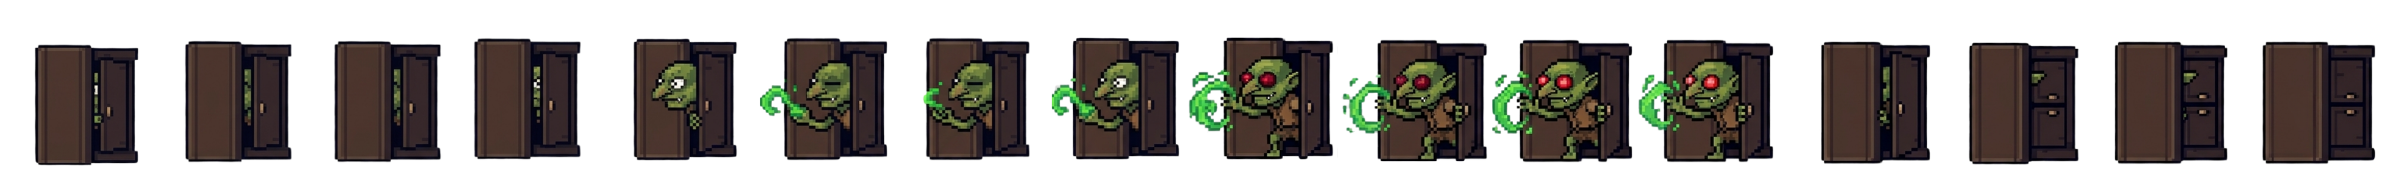
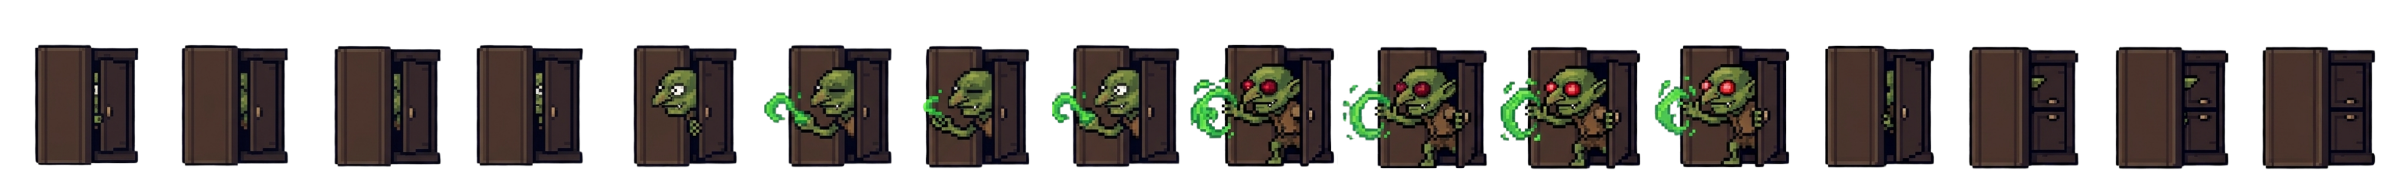
Assets

diff --git a/sketch.js b/sketch.js
@@ -187,10 +187,7 @@ let hitFlashAlpha = 0;
 const HIT_FLASH_MAX = 150;
 const HIT_FLASH_DECAY = 8;
 
-// HEALTH RECOVERY GLOW
-let healFlashAlpha = 0;
-const HEAL_FLASH_MAX = 120;
-const HEAL_FLASH_DECAY = 5;
+
 
 // PLAYER HITBOX
 const HITBOX_RADIUS = 12;
@@ -869,7 +866,7 @@ const GOBLIN_LVL1 = {
 };
 
 const GOBLIN_LVL2 = {
-  frameWidth: 150,
+  frameWidth: 149,
   frameHeight: 180,
   numFrames: 16,
   animSpeed: 12,
@@ -1084,10 +1081,7 @@ updateInvincibility();
     drawRedFlash(hitFlashAlpha);
   }
 
-  if (healFlashAlpha > 0) {
-  healFlashAlpha = max(0, healFlashAlpha - HEAL_FLASH_DECAY);
-  drawHealFlash(healFlashAlpha);
-  }
+
 
   drawVignette();
 
@@ -1611,19 +1605,22 @@ function drawCollectibles() {
 
 function checkCollectibles() {
   for (let item of collectibles) {
-
     if (!item.collected) {
-
       let x = item.col * tileSize + tileSize / 2;
       let y = item.row * tileSize + tileSize / 2;
 
       let d = dist(player.x, player.y, x, y);
 
       if (d < 20) {
-
         item.collected = true;
         collectedCount++;
         collect.play();
+
+        // Every collectible in every level restores 5%
+        socialBattery = min(100, socialBattery + 5);
+
+        // Trigger the green recovery glow
+        healFlashAlpha = HEAL_FLASH_MAX;
 
         // LEVEL 1 BADGE
         if (
@@ -1631,10 +1628,7 @@ function checkCollectibles() {
           collectedCount === collectibles.length &&
           !badgeUnlocked
         ) {
-
           badgeUnlocked = true;
-
-          
 
           badgeX = width / 2;
           badgeY = height / 2 - 80;
@@ -1644,26 +1638,19 @@ function checkCollectibles() {
         }
 
         // LEVEL 2 BADGE
-       if (
-  maze === maze2 &&
-  collectedCount === 5 &&
-  !potionBadgeUnlocked
-) {
+        if (
+          maze === maze2 &&
+          collectedCount === collectibles.length &&
+          !potionBadgeUnlocked
+        ) {
+          potionBadgeUnlocked = true;
 
-  potionBadgeUnlocked = true;
-  
-  // Every collectible restores 5% Social Battery
-  socialBattery = min(100, socialBattery + 5);
-  
-  // Trigger green recovery glow
-  healFlashAlpha = HEAL_FLASH_MAX;
+          badgeX = width / 2;
+          badgeY = height / 2 - 80;
 
-  badgeX = width / 2;
-  badgeY = height / 2 - 80;
-
-  badgeScale = 1.3;
-  badgeMessageTimer = 180;
-}
+          badgeScale = 1.3;
+          badgeMessageTimer = 180;
+        }
       }
     }
   }
@@ -1962,13 +1949,6 @@ function drawRedFlash(alpha) {
   rect(0, 0, width, height);
 }
 
-function drawHealFlash(alpha) {
-  noStroke();
-
-  // Soft transparent green overlay
-  fill(80, 255, 120, alpha);
-  rect(0, 0, width, height);
-}
 
 function updateInvincibility() {
   if (playerInvincible) {
